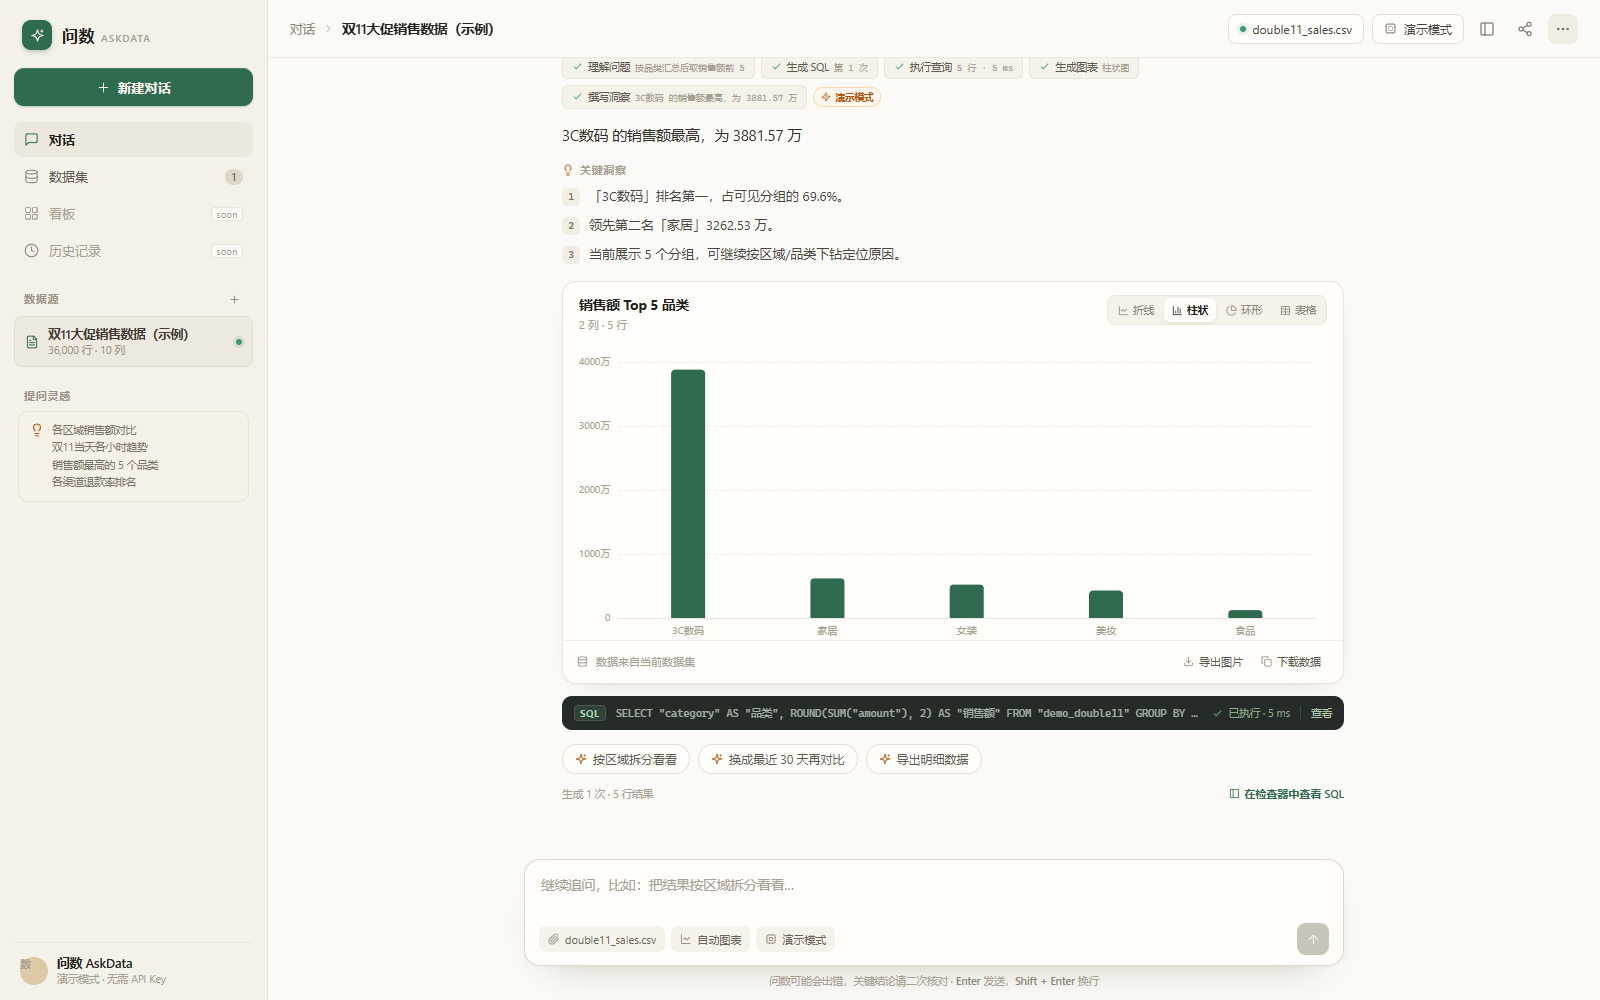
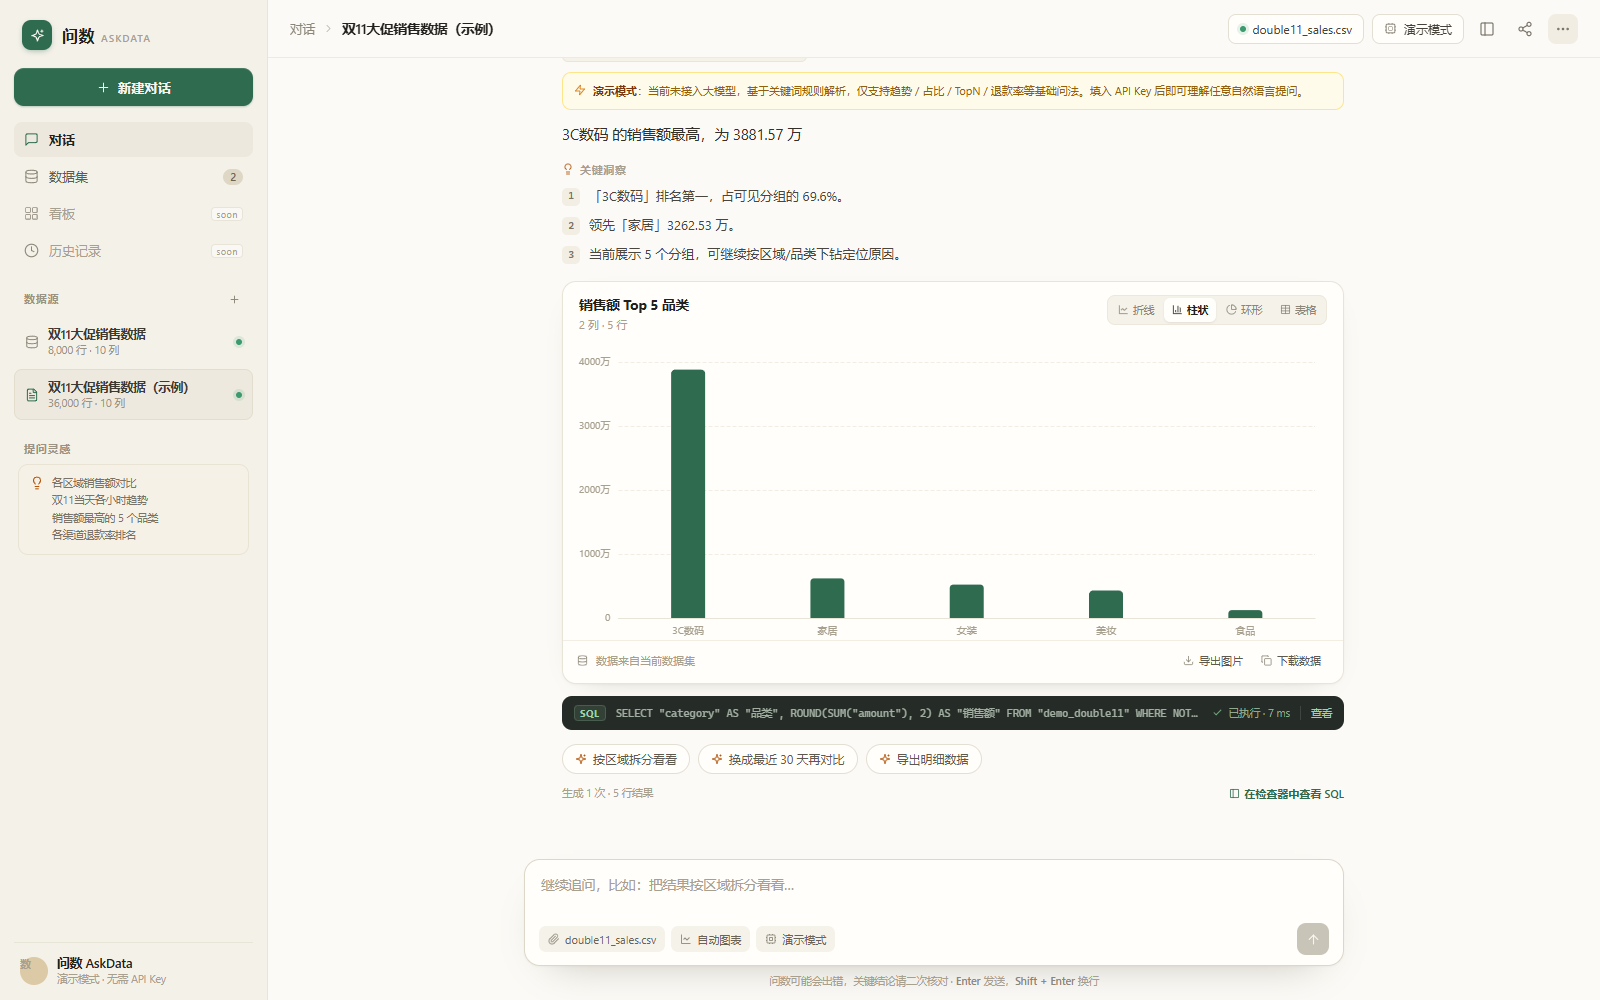
fix: 修复生产模式静态资源 MIME + 交互体验优化
- 修复 Windows 下 .js 被识别为 text/plain 导致 8000 端口白屏的问题，改为显式 MIME 路由
- 示例问题 / 追问建议改为只填入输入框，不再自动发送
- 修复「最低/最小」类问题被按降序处理的问题，洞察同步支持最低语义
- 维度聚合排除空值分组，避免出现 None 分组
- 回答中明确展示「演示模式」能力边界说明
- 更新 E2E（校验建议点击只填不发送）与文档截图

diff --git a/frontend/src/components/AnswerCard.vue b/frontend/src/components/AnswerCard.vue
@@ -7,7 +7,7 @@ import SqlBlock from './SqlBlock.vue'
 const props = defineProps({
   message: { type: Object, required: true }
 })
-const emit = defineEmits(['send', 'open-inspector'])
+const emit = defineEmits(['send', 'open-inspector', 'fill'])
 
 const LOADING_STEPS = ['理解问题', '生成 SQL', '执行查询', '生成图表', '撰写洞察']
 const activeStep = ref(0)
@@ -115,7 +115,11 @@ const elapsed = computed(() => {
             <Icon name="check" :size="11" />{{ step.label }}
             <span v-if="step.detail" class="tag">{{ step.detail }}</span>
           </span>
-          <span v-if="response.mock" class="mock-badge"><Icon name="zap" :size="10" />演示模式</span>
+        </div>
+
+        <div v-if="response.mock" class="mock-note">
+          <Icon name="zap" :size="12" />
+          <span><b>演示模式</b>：当前未接入大模型，基于关键词规则解析，仅支持趋势 / 占比 / TopN / 退款率等基础问法。填入 API Key 后即可理解任意自然语言提问。</span>
         </div>
 
         <p v-if="response.insight?.headline" class="lead">{{ response.insight.headline }}</p>
@@ -148,7 +152,7 @@ const elapsed = computed(() => {
             v-for="followup in response.insight.followups"
             :key="followup"
             class="followup"
-            @click="emit('send', followup)"
+            @click="emit('fill', followup)"
           >
             <Icon name="sparkles" :size="12" />{{ followup }}
           </button>

diff --git a/frontend/src/App.vue b/frontend/src/App.vue
@@ -25,6 +25,7 @@ const activeResponse = ref(null)
 const inspectorOpen = ref(false)
 const uploadOpen = ref(false)
 const previewOpen = ref(false)
+const prefillQuestion = ref(null)
 const toast = ref('')
 let toastTimer = null
 
@@ -158,7 +159,8 @@ async function onExample(question) {
     await loadDemo()
     if (!activeDataset.value) return
   }
-  sendQuestion(question)
+  // 只填入输入框，不自动发送（让用户自己确认）
+  prefillQuestion.value = { text: question, nonce: Date.now() }
 }
 </script>
 
@@ -190,6 +192,7 @@ async function onExample(question) {
         :examples="EXAMPLES"
         @send="sendQuestion"
         @example="onExample"
+        @fill="onExample"
         @upload="uploadOpen = true"
         @demo="loadDemo"
         @preview="previewOpen = true"
@@ -201,6 +204,7 @@ async function onExample(question) {
         :loading="loading"
         :dataset="activeDataset"
         :model="modelLabel"
+        :prefill="prefillQuestion"
         @send="sendQuestion"
       />
     </main>

diff --git a/frontend/src/styles.css b/frontend/src/styles.css
@@ -251,6 +251,9 @@ a { color: inherit; text-decoration: none; }
 .answer-footer { display: flex; align-items: center; gap: 8px; margin-top: 12px; font-size: 10.5px; color: var(--faint); }
 .answer-footer .spacer { flex: 1; }
 .mock-badge { display: inline-flex; align-items: center; gap: 4px; height: 20px; padding: 0 7px; border-radius: 99px; background: #FFF7ED; border: 1px solid #FED7AA; color: #B45309; font-size: 9.5px; font-weight: 600; }
+.mock-note { display: flex; align-items: flex-start; gap: 7px; margin: -4px 0 12px; padding: 9px 11px; border-radius: 9px; background: #FFFBEB; border: 1px solid #FDE68A; color: #92600A; font-size: 11px; line-height: 1.65; }
+.mock-note .icon { margin-top: 2px; color: #D97706; }
+.mock-note b { color: #78350F; font-weight: 650; }
 .link-btn { display: inline-flex; align-items: center; gap: 4px; color: var(--brand); font-size: 11px; font-weight: 600; }
 .link-btn:hover { text-decoration: underline; }
 

diff --git a/frontend/src/components/Composer.vue b/frontend/src/components/Composer.vue
@@ -6,7 +6,8 @@ const props = defineProps({
   disabled: { type: Boolean, default: false },
   loading: { type: Boolean, default: false },
   dataset: { type: Object, default: null },
-  model: { type: String, default: '演示模式' }
+  model: { type: String, default: '演示模式' },
+  prefill: { type: Object, default: null }
 })
 const emit = defineEmits(['send'])
 
@@ -42,6 +43,23 @@ function onKeydown(event) {
 }
 
 watch(text, () => nextTick(autoGrow))
+
+// 点击「示例问题 / 追问建议」只填入输入框，由用户确认后自行发送
+watch(
+  () => props.prefill,
+  (value) => {
+    if (!value || !value.text) return
+    text.value = value.text
+    nextTick(() => {
+      autoGrow()
+      const el = textarea.value
+      if (el) {
+        el.focus()
+        el.setSelectionRange(el.value.length, el.value.length)
+      }
+    })
+  }
+)
 </script>
 
 <template>

diff --git a/frontend/src/components/ChatThread.vue b/frontend/src/components/ChatThread.vue
@@ -10,7 +10,7 @@ const props = defineProps({
   loading: { type: Boolean, default: false },
   examples: { type: Array, default: () => [] }
 })
-const emit = defineEmits(['send', 'upload', 'demo', 'preview', 'open-inspector', 'example'])
+const emit = defineEmits(['send', 'upload', 'demo', 'preview', 'open-inspector', 'example', 'fill'])
 
 const scrollEl = ref(null)
 
@@ -123,6 +123,7 @@ watch(() => props.dataset, () => nextTick(scrollToBottom))
           :key="message.id"
           :message="message"
           @send="emit('send', $event)"
+          @fill="emit('fill', $event)"
           @open-inspector="emit('open-inspector')"
         />
       </template>

diff --git a/backend/app/services/insight.py b/backend/app/services/insight.py
@@ -12,6 +12,7 @@ from . import llm
 
 RATE_HINTS = ("rate", "率", "ratio", "percent", "pct")
 TIME_HINTS = ("time", "date", "日期", "时间", "period", "月", "日")
+LOW_HINTS = ("最低", "最小", "最少", "最差", "倒数", "垫底")
 
 
 def _summarize_for_llm(result: QueryResult, max_rows: int = 30) -> str:
@@ -88,14 +89,24 @@ def heuristic_insight(question: str, result: QueryResult) -> Insight:
     ]
     is_rate = _is_rate(y_name, question)
     is_time = bool(x_name) and _looks_time(x_name, [row[x_idx] for row in result.rows])
+    low_intent = any(keyword in question for keyword in LOW_HINTS)
 
     if is_rate:
-        top_value, top_row = max(pairs, key=lambda item: item[0] or 0)
-        low_value, low_row = min(pairs, key=lambda item: item[0] or 0)
-        top_label = str(top_row[x_idx]) if x_idx is not None else "整体"
-        low_label = str(low_row[x_idx]) if x_idx is not None else "整体"
-        headline = f"{top_label} 的{y_label}最高，为 {top_value:.2f}%"
-        bullets.append(f"最高为「{top_label}」{top_value:.2f}%，最低为「{low_label}」{low_value:.2f}%，相差 {top_value - low_value:.2f} 个百分点。")
+        sorted_pairs = sorted(pairs, key=lambda item: item[0] or 0)
+        if low_intent:
+            low_value, low_row = sorted_pairs[0]
+            high_value, high_row = sorted_pairs[-1]
+            low_label = str(low_row[x_idx]) if x_idx is not None else "整体"
+            high_label = str(high_row[x_idx]) if x_idx is not None else "整体"
+            headline = f"{low_label} 的{y_label}最低，为 {low_value:.2f}%"
+            bullets.append(f"最低为「{low_label}」{low_value:.2f}%，最高为「{high_label}」{high_value:.2f}%，相差 {high_value - low_value:.2f} 个百分点。")
+        else:
+            top_value, top_row = sorted_pairs[-1]
+            low_value, low_row = sorted_pairs[0]
+            top_label = str(top_row[x_idx]) if x_idx is not None else "整体"
+            low_label = str(low_row[x_idx]) if x_idx is not None else "整体"
+            headline = f"{top_label} 的{y_label}最高，为 {top_value:.2f}%"
+            bullets.append(f"最高为「{top_label}」{top_value:.2f}%，最低为「{low_label}」{low_value:.2f}%，相差 {top_value - low_value:.2f} 个百分点。")
         avg = sum(v or 0 for v, _ in pairs) / len(pairs)
         bullets.append(f"各组平均{y_label}约 {avg:.2f}%，可重点优化高于均值且占比大的分组。")
     elif is_time and len(pairs) >= 2:
@@ -112,17 +123,23 @@ def heuristic_insight(question: str, result: QueryResult) -> Insight:
         avg = sum(v or 0 for v, _ in pairs) / len(pairs)
         bullets.append(f"区间平均{y_label}为 {fmt_num(avg)}。")
     else:
-        top_value, top_row = max(pairs, key=lambda item: item[0] or 0)
-        top_label = str(top_row[x_idx]) if x_idx is not None else "当前结果"
+        sorted_pairs = sorted(pairs, key=lambda item: item[0] or 0, reverse=not low_intent)
+        target_value, target_row = sorted_pairs[0]
+        target_label = str(target_row[x_idx]) if x_idx is not None else "当前结果"
         total = sum(v or 0 for v, _ in pairs)
-        share = (top_value or 0) / total * 100 if total else 0
-        headline = f"{top_label} 的{y_label}最高，为 {fmt_num(top_value)}"
-        bullets.append(f"「{top_label}」排名第一，占可见分组的 {share:.1f}%。")
-        if len(pairs) >= 2:
-            second = sorted(pairs, key=lambda item: item[0] or 0, reverse=True)[1]
-            gap = (top_value or 0) - (second[0] or 0)
+        share = (target_value or 0) / total * 100 if total else 0
+        if low_intent:
+            headline = f"{target_label} 的{y_label}最低，为 {fmt_num(target_value)}"
+            bullets.append(f"「{target_label}」排名最后，占可见分组的 {share:.1f}%。")
+        else:
+            headline = f"{target_label} 的{y_label}最高，为 {fmt_num(target_value)}"
+            bullets.append(f"「{target_label}」排名第一，占可见分组的 {share:.1f}%。")
+        if len(sorted_pairs) >= 2:
+            second = sorted_pairs[1]
+            gap = abs((target_value or 0) - (second[0] or 0))
             second_label = str(second[1][x_idx]) if x_idx is not None else "第二名"
-            bullets.append(f"领先第二名「{second_label}」{fmt_num(gap)}。")
+            word = "领先" if not low_intent else "低于"
+            bullets.append(f"{word}「{second_label}」{fmt_num(gap)}。")
         bullets.append(f"当前展示 {len(pairs)} 个分组，可继续按区域/品类下钻定位原因。")
 
     followups = ["按区域拆分看看", "换成最近 30 天再对比", "导出明细数据"]

diff --git a/backend/app/main.py b/backend/app/main.py
@@ -7,13 +7,33 @@ from __future__ import annotations
 
 from contextlib import asynccontextmanager
 
-from fastapi import FastAPI
+from fastapi import FastAPI, HTTPException
 from fastapi.middleware.cors import CORSMiddleware
 from fastapi.responses import FileResponse
-from fastapi.staticfiles import StaticFiles
 
 from . import config, store
 from .routers import chat, datasets
+
+# Windows 下 Python 的 mimetypes 会把 .js 识别成 text/plain（读取注册表），
+# 导致浏览器拒绝加载 ESM 前端资源。这里为构建产物显式指定 MIME 类型。
+ASSET_MEDIA = {
+    ".js": "text/javascript",
+    ".mjs": "text/javascript",
+    ".css": "text/css",
+    ".svg": "image/svg+xml",
+    ".png": "image/png",
+    ".jpg": "image/jpeg",
+    ".jpeg": "image/jpeg",
+    ".webp": "image/webp",
+    ".gif": "image/gif",
+    ".json": "application/json",
+    ".map": "application/json",
+    ".ico": "image/x-icon",
+    ".woff": "font/woff",
+    ".woff2": "font/woff2",
+    ".ttf": "font/ttf",
+    ".txt": "text/plain",
+}
 
 
 @asynccontextmanager
@@ -61,15 +81,30 @@ def health():
     }
 
 
-# 生产模式：直接托管前端构建产物（npm run build 之后生效）
+# ---------------- 生产模式：托管前端构建产物 ----------------
 if config.FRONTEND_DIST.exists():
-    assets_dir = config.FRONTEND_DIST / "assets"
-    if assets_dir.exists():
-        app.mount("/assets", StaticFiles(directory=assets_dir), name="assets")
+    DIST_ROOT = config.FRONTEND_DIST.resolve()
+    ASSETS_ROOT = (config.FRONTEND_DIST / "assets").resolve()
+
+    def _safe_file(root, relative: str):
+        candidate = (root / relative).resolve()
+        if not str(candidate).startswith(str(root)):
+            return None
+        return candidate if candidate.is_file() else None
+
+    @app.get("/assets/{asset_path:path}", include_in_schema=False)
+    def serve_asset(asset_path: str):
+        candidate = _safe_file(ASSETS_ROOT, asset_path)
+        if not candidate:
+            raise HTTPException(status_code=404, detail="asset not found")
+        media = ASSET_MEDIA.get(candidate.suffix.lower(), "application/octet-stream")
+        return FileResponse(candidate, media_type=media)
 
     @app.get("/{full_path:path}", include_in_schema=False)
     def spa_fallback(full_path: str):
-        candidate = config.FRONTEND_DIST / full_path
-        if full_path and candidate.is_file():
-            return FileResponse(candidate)
-        return FileResponse(config.FRONTEND_DIST / "index.html")
+        if full_path:
+            candidate = _safe_file(DIST_ROOT, full_path)
+            if candidate:
+                media = ASSET_MEDIA.get(candidate.suffix.lower())
+                return FileResponse(candidate, media_type=media)
+        return FileResponse(DIST_ROOT / "index.html", media_type="text/html")

diff --git a/backend/app/prompts.py b/backend/app/prompts.py
@@ -54,6 +54,8 @@ NL2SQL_SYSTEM = """# 角色
 5. 对于“各/每/按 X”的问题必须 GROUP BY X，并让 SELECT 中包含该维度列。
 6. 无法回答（字段缺失/语义不明/超出数据范围）→ intent=clarify 或 unsupported，sql 为 null，
    在 clarification 里给出 2-3 个可选澄清项，禁止臆造字段。
+7. 按维度聚合时排除维度为空的行（如 WHERE region IS NOT NULL）；用户明确问“最高/最大/前三”用 DESC，
+   问“最低/最小/最少/倒数”必须用 ASC，不要一律降序。
 7. 图表选择：
    - 时间维度 + 数值 → line；
    - 类别 + 数值 → bar（类别>8 或名称较长时仍用 bar）；

diff --git a/scripts/test_api.py b/scripts/test_api.py
@@ -38,6 +38,7 @@ def main() -> None:
             "各区域的销售额对比",
             "双11当天各小时销售额趋势",
             "销售额最高的5个品类",
+            "销售额最低的3个品类",
             "各渠道的退款率排名",
         ]
         for question in questions:
